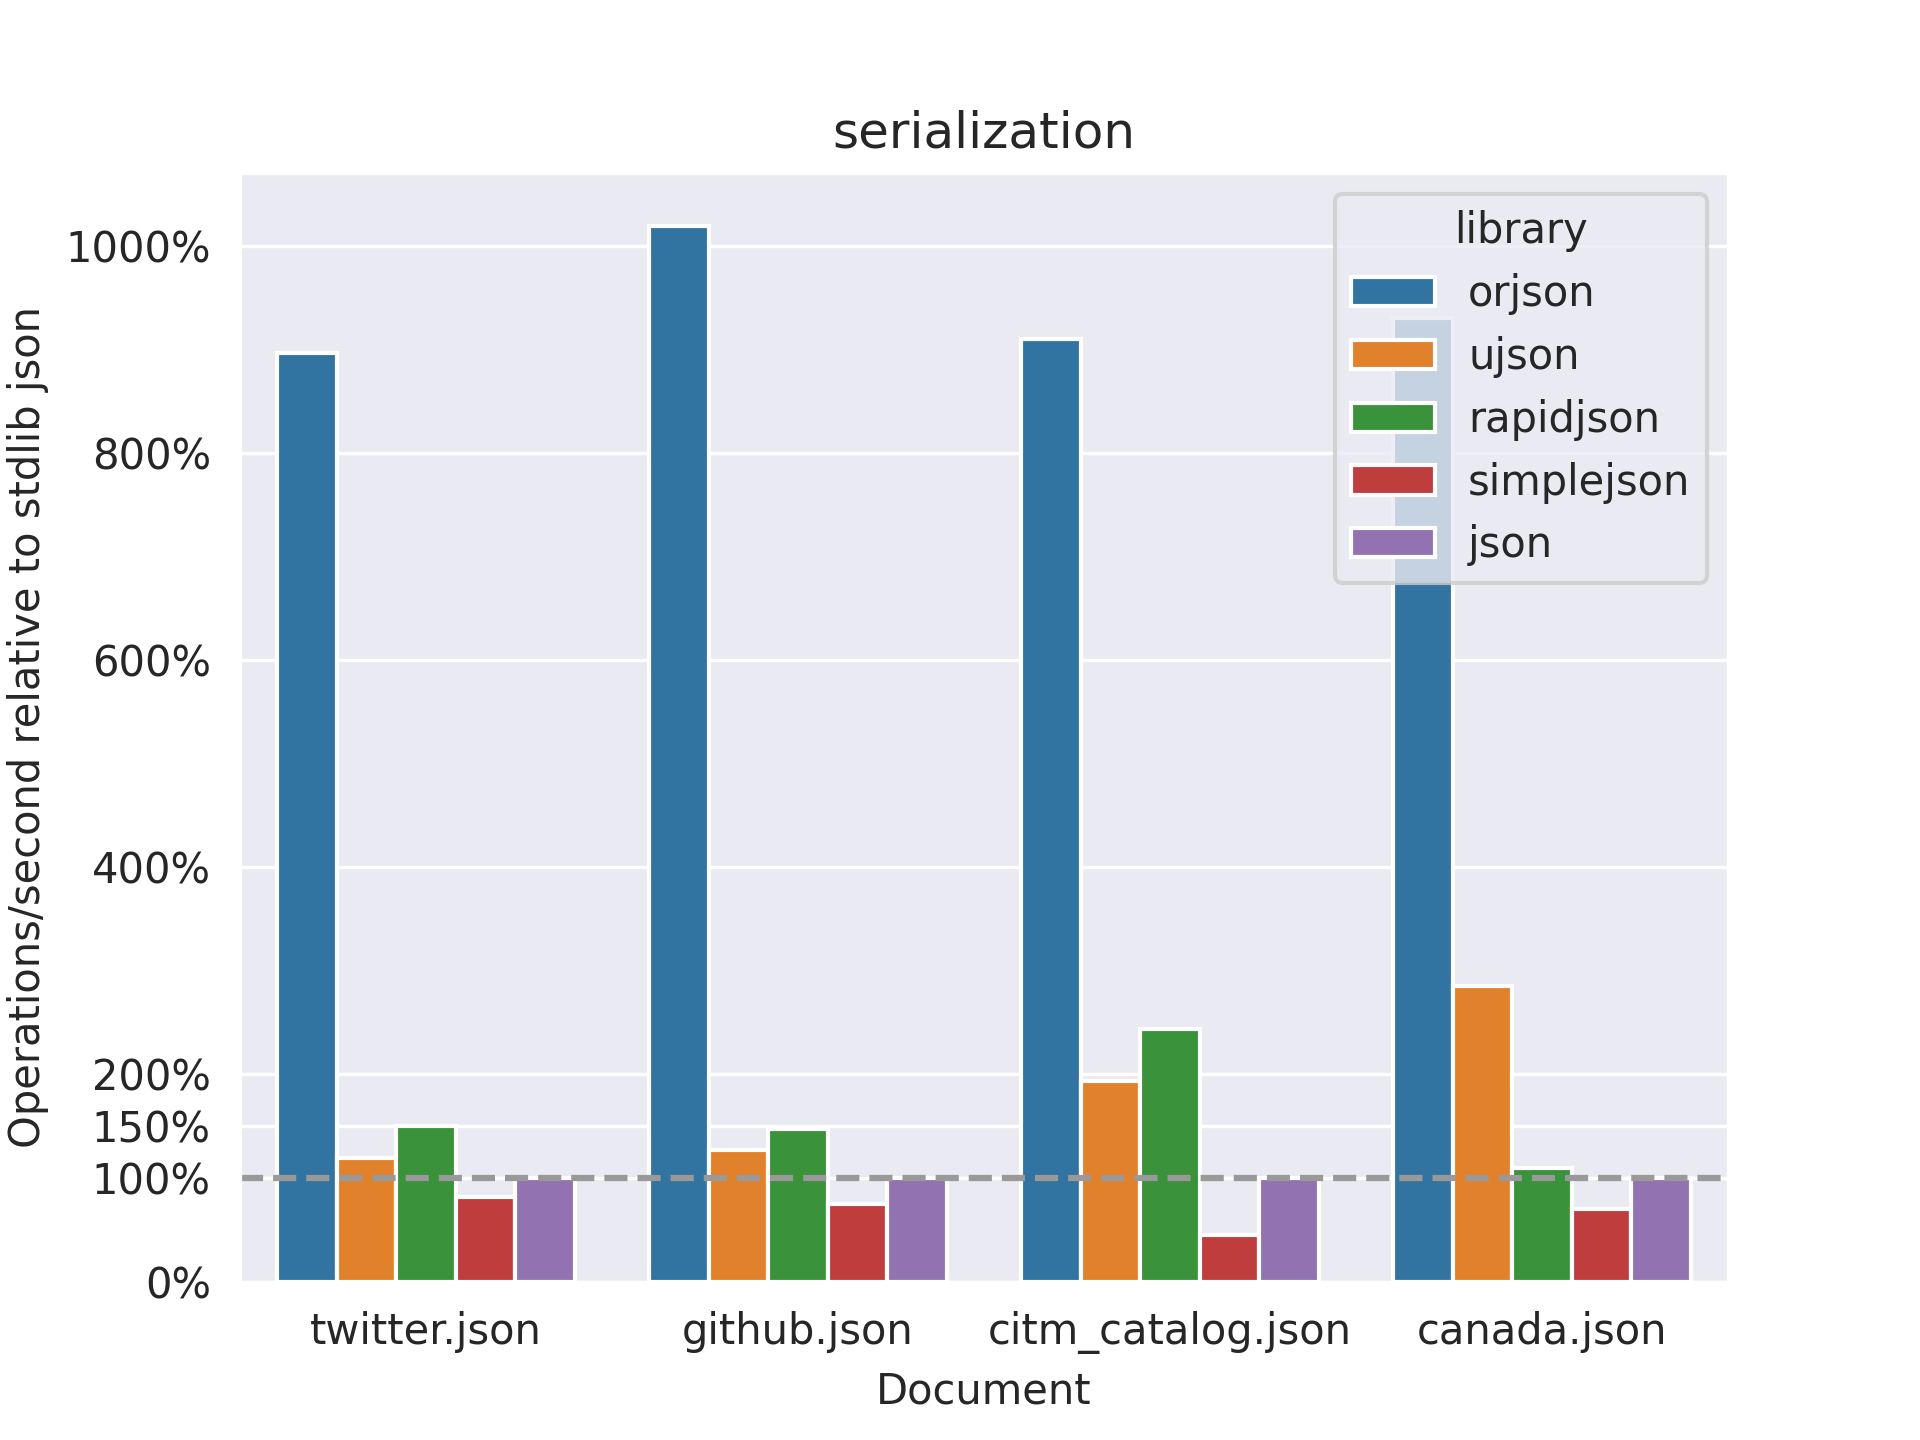
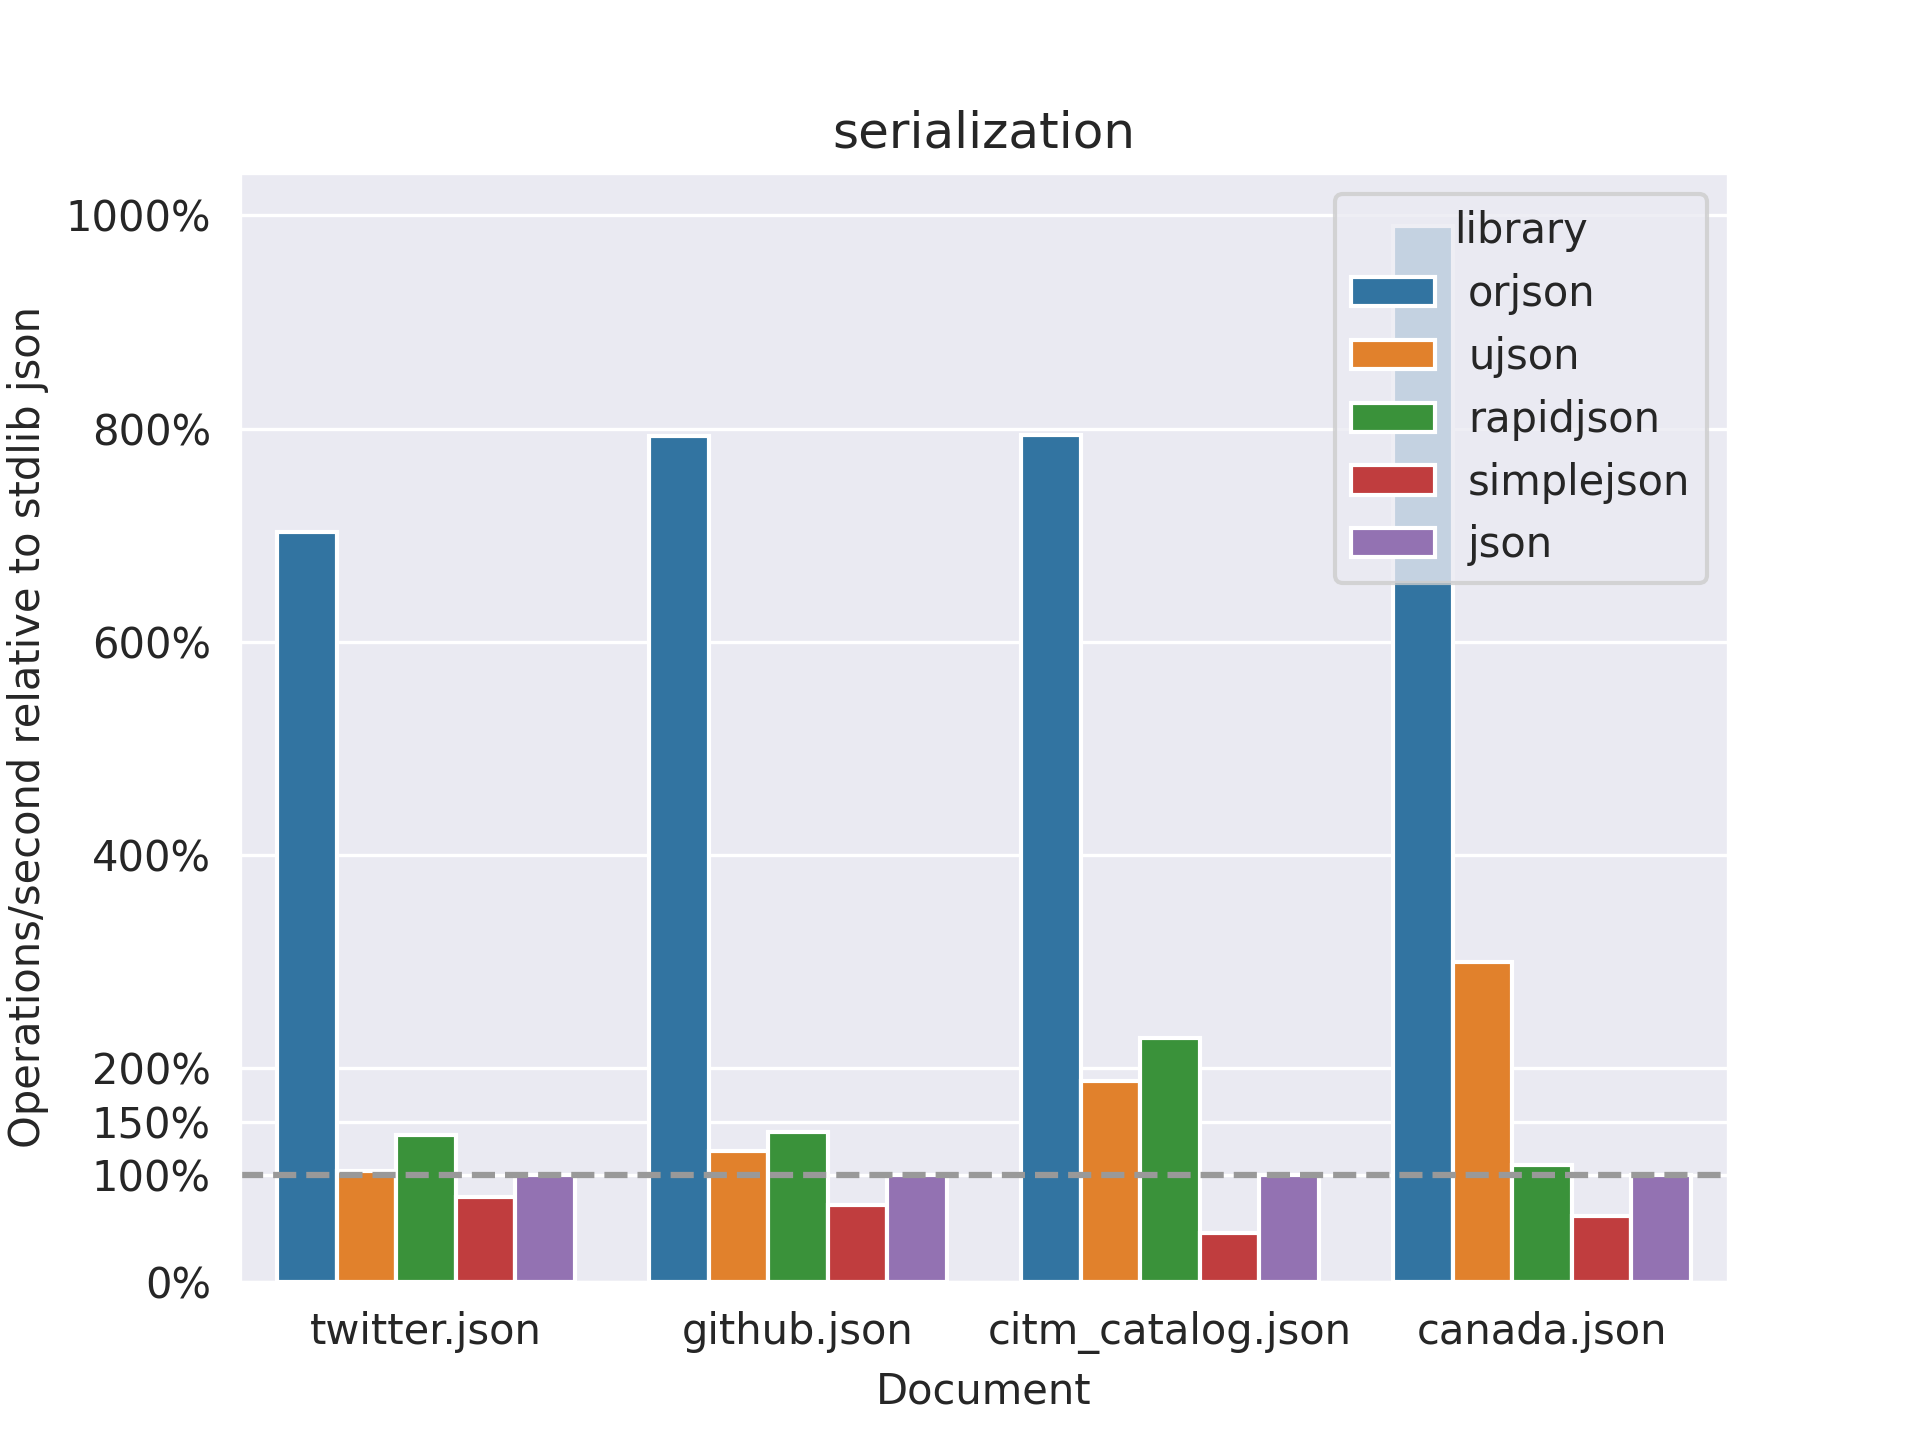
3.10.0

diff --git a/README.md b/README.md
@@ -1027,81 +1027,81 @@ format, containing floats and arrays, indented.
 
 | Library    |   Median latency (milliseconds) |   Operations per second |   Relative (latency) |
 |------------|---------------------------------|-------------------------|----------------------|
-| orjson     |                             0.3 |                    3560 |                  1   |
-| ujson      |                             2.1 |                     473 |                  7.5 |
-| rapidjson  |                             1.7 |                     596 |                  5.9 |
-| simplejson |                             3.1 |                     324 |                 10.8 |
-| json       |                             2.5 |                     397 |                  8.9 |
+| orjson     |                             0.3 |                    3085 |                  1   |
+| ujson      |                             2.2 |                     454 |                  6.7 |
+| rapidjson  |                             1.7 |                     605 |                  5.1 |
+| simplejson |                             2.9 |                     350 |                  8.8 |
+| json       |                             2.3 |                     439 |                  7   |
 
 #### twitter.json deserialization
 
 | Library    |   Median latency (milliseconds) |   Operations per second |   Relative (latency) |
 |------------|---------------------------------|-------------------------|----------------------|
-| orjson     |                             1.2 |                     811 |                  1   |
-| ujson      |                             2.9 |                     347 |                  2.3 |
-| rapidjson  |                             5.1 |                     197 |                  4.1 |
-| simplejson |                             2.8 |                     352 |                  2.3 |
-| json       |                             3.3 |                     299 |                  2.7 |
+| orjson     |                             1.2 |                     839 |                  1   |
+| ujson      |                             2.5 |                     396 |                  2.1 |
+| rapidjson  |                             4.1 |                     243 |                  3.5 |
+| simplejson |                             2.7 |                     367 |                  2.3 |
+| json       |                             3.2 |                     310 |                  2.7 |
 
 #### github.json serialization
 
 | Library    |   Median latency (milliseconds) |   Operations per second |   Relative (latency) |
 |------------|---------------------------------|-------------------------|----------------------|
-| orjson     |                             0   |                   39916 |                  1   |
-| ujson      |                             0.2 |                    4969 |                  8   |
-| rapidjson  |                             0.2 |                    5754 |                  6.9 |
-| simplejson |                             0.3 |                    2916 |                 13.7 |
-| json       |                             0.3 |                    3916 |                 10.3 |
+| orjson     |                             0   |                   33474 |                  1   |
+| ujson      |                             0.2 |                    5179 |                  6.5 |
+| rapidjson  |                             0.2 |                    5910 |                  5.7 |
+| simplejson |                             0.3 |                    3051 |                 11   |
+| json       |                             0.2 |                    4222 |                  7.9 |
 
 #### github.json deserialization
 
 | Library    |   Median latency (milliseconds) |   Operations per second |   Relative (latency) |
 |------------|---------------------------------|-------------------------|----------------------|
-| orjson     |                             0.1 |                    9879 |                  1   |
-| ujson      |                             0.2 |                    4059 |                  2.3 |
-| rapidjson  |                             0.3 |                    3772 |                  2.6 |
-| simplejson |                             0.2 |                    5092 |                  1.9 |
-| json       |                             0.2 |                    4944 |                  2   |
+| orjson     |                             0.1 |                   10211 |                  1   |
+| ujson      |                             0.2 |                    4222 |                  2.2 |
+| rapidjson  |                             0.3 |                    3947 |                  2.6 |
+| simplejson |                             0.2 |                    5437 |                  1.9 |
+| json       |                             0.2 |                    5240 |                  1.9 |
 
 #### citm_catalog.json serialization
 
 | Library    |   Median latency (milliseconds) |   Operations per second |   Relative (latency) |
 |------------|---------------------------------|-------------------------|----------------------|
-| orjson     |                             0.6 |                    1601 |                  1   |
-| ujson      |                             2.9 |                     340 |                  4.8 |
-| rapidjson  |                             2.3 |                     429 |                  3.8 |
-| simplejson |                            12.5 |                      79 |                 20.3 |
-| json       |                             5.7 |                     176 |                  9.2 |
+| orjson     |                             0.6 |                    1549 |                  1   |
+| ujson      |                             2.7 |                     366 |                  4.2 |
+| rapidjson  |                             2.2 |                     446 |                  3.5 |
+| simplejson |                            11.3 |                      88 |                 17.6 |
+| json       |                             5.1 |                     195 |                  7.9 |
 
 #### citm_catalog.json deserialization
 
 | Library    |   Median latency (milliseconds) |   Operations per second |   Relative (latency) |
 |------------|---------------------------------|-------------------------|----------------------|
-| orjson     |                             2.9 |                     341 |                  1   |
-| ujson      |                             5   |                     202 |                  1.7 |
-| rapidjson  |                             8.3 |                     119 |                  2.8 |
-| simplejson |                             6.6 |                     151 |                  2.2 |
-| json       |                             7   |                     141 |                  2.4 |
+| orjson     |                             2.7 |                     367 |                  1   |
+| ujson      |                             4.7 |                     213 |                  1.7 |
+| rapidjson  |                             7.2 |                     139 |                  2.6 |
+| simplejson |                             6   |                     167 |                  2.2 |
+| json       |                             6.3 |                     158 |                  2.3 |
 
 #### canada.json serialization
 
 | Library    |   Median latency (milliseconds) |   Operations per second |   Relative (latency) |
 |------------|---------------------------------|-------------------------|----------------------|
-| orjson     |                             5.3 |                     186 |                  1   |
-| ujson      |                            17.2 |                      57 |                  3.2 |
-| rapidjson  |                            45.3 |                      22 |                  8.5 |
-| simplejson |                            70.9 |                      14 |                 13.3 |
-| json       |                            49.7 |                      20 |                  9.3 |
+| orjson     |                             4.8 |                     208 |                  1   |
+| ujson      |                            15.6 |                      63 |                  3.3 |
+| rapidjson  |                            42.4 |                      23 |                  8.9 |
+| simplejson |                            72   |                      13 |                 15   |
+| json       |                            46.2 |                      21 |                  9.6 |
 
 #### canada.json deserialization
 
 | Library    |   Median latency (milliseconds) |   Operations per second |   Relative (latency) |
 |------------|---------------------------------|-------------------------|----------------------|
-| orjson     |                             6.7 |                     149 |                  1   |
-| ujson      |                            15.2 |                      66 |                  2.3 |
-| rapidjson  |                            30.1 |                      33 |                  4.5 |
-| simplejson |                            29.9 |                      32 |                  4.5 |
-| json       |                            30.4 |                      32 |                  4.5 |
+| orjson     |                             5.7 |                     176 |                  1   |
+| ujson      |                            14   |                      71 |                  2.5 |
+| rapidjson  |                            27.5 |                      36 |                  4.9 |
+| simplejson |                            28.4 |                      35 |                  5   |
+| json       |                            28.3 |                      35 |                  5   |
 
 ### Memory
 
@@ -1156,8 +1156,8 @@ calling `loads()` on the fixture.
 
 ### Reproducing
 
-The above was measured using Python 3.11.6 on Linux (amd64) with
-orjson 3.9.11, ujson 5.9.0, python-rapidson 1.14, and simplejson 3.19.2.
+The above was measured using Python 3.11.8 on Linux (amd64) with
+orjson 3.10.0, ujson 5.9.0, python-rapidson 1.16, and simplejson 3.19.2.
 
 The latency results can be reproduced using the `pybench` and `graph`
 scripts. The memory results can be reproduced using the `pymem` script.

diff --git a/CHANGELOG.md b/CHANGELOG.md
@@ -1,6 +1,15 @@
 # Changelog
 
 
+## 3.10.0 - 2024-03-27
+
+### Changed
+
+- Support serializing `numpy.float16` (`numpy.half`).
+- sdist uses metadata 2.3 instead of 2.1.
+- Improve Windows PyPI builds.
+
+
 ## 3.9.15 - 2024-02-23
 
 ### Fixed
